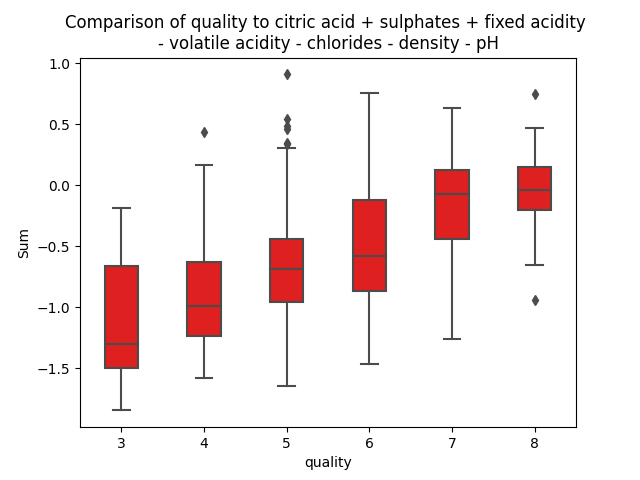
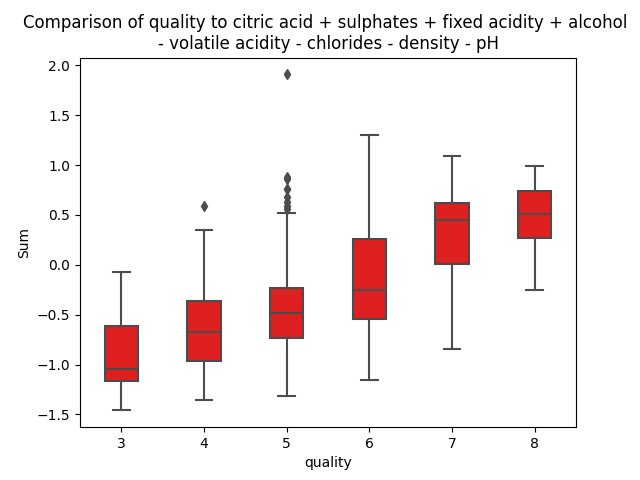
graph avec alcohol

diff --git a/dataViz.py b/dataViz.py
@@ -112,17 +112,11 @@ def plotQualiteVSColCrois():
         col for col in df2.columns if col != "quality"]
     df1[colonnes_a_mettre_a_l_echelle] = scaler.fit_transform(
         df1[colonnes_a_mettre_a_l_echelle])
-    df1['Sum1'] = df1['citric acid']+df1['sulphates'] + df1['fixed acidity']
+    df1['Sum1'] = df1['citric acid']+df1['sulphates'] + \
+        df1['fixed acidity'] + df1['alcohol']
     sns.boxplot(x='quality', y='Sum1', data=df1, color='red', width=0.4)
     plt.xlabel('quality')
-    plt.ylabel('Sum of citric acid, fixed acidity and sulphates')
-    title = 'Comparison of quality to a sum of carefully chosen columns'
-    plt.title(title)
-    plt.show()
-    df1['Sum2'] = df1['citric acid']+df1['sulphates']
-    sns.boxplot(x='quality', y='Sum2', data=df1, color='red', width=0.4)
-    plt.xlabel('quality')
-    plt.ylabel('Sum of citric acid and sulphates')
+    plt.ylabel('Sum of citric acid, fixed acidity, alcohol and sulphates')
     title = 'Comparison of quality to a sum of carefully chosen columns'
     plt.title(title)
     plt.show()
@@ -151,13 +145,14 @@ def plotQualiteVSColTot():
         col for col in df2.columns if col != "quality"]
     df1[colonnes_a_mettre_a_l_echelle] = scaler.fit_transform(
         df1[colonnes_a_mettre_a_l_echelle])
-    df1['Sum1'] = df1['citric acid']+df1['sulphates'] + df1['fixed acidity']
+    df1['Sum1'] = df1['citric acid']+df1['sulphates'] + \
+        df1['fixed acidity'] + df1['alcohol']
     df1['Sum2'] = df1['volatile acidity'] + \
         df1['chlorides']+df1['density'] + df1['pH']
     df1['Tot'] = df1['Sum1'] - df1['Sum2']
     sns.boxplot(x='quality', y='Tot', data=df1, color='red', width=0.4)
     plt.xlabel('quality')
     plt.ylabel('Sum')
-    title = 'Comparison of quality to citric acid + sulphates + fixed acidity \n- volatile acidity - chlorides - density - pH'
+    title = 'Comparison of quality to citric acid + sulphates + fixed acidity + alcohol \n- volatile acidity - chlorides - density - pH'
     plt.title(title)
     plt.show()

diff --git a/graphOnDatabase.py b/graphOnDatabase.py
@@ -24,6 +24,6 @@ description.to_markdown('description.md')
 
 # dv.plotMoyParQualite()
 # dv.plotQualiteVSColDecrois()
-# dv.plotQualiteVSColCrois()
+dv.plotQualiteVSColCrois()
 dv.plotQualiteVSColTot()
 # dv.plotBoitesMoustQuali()
